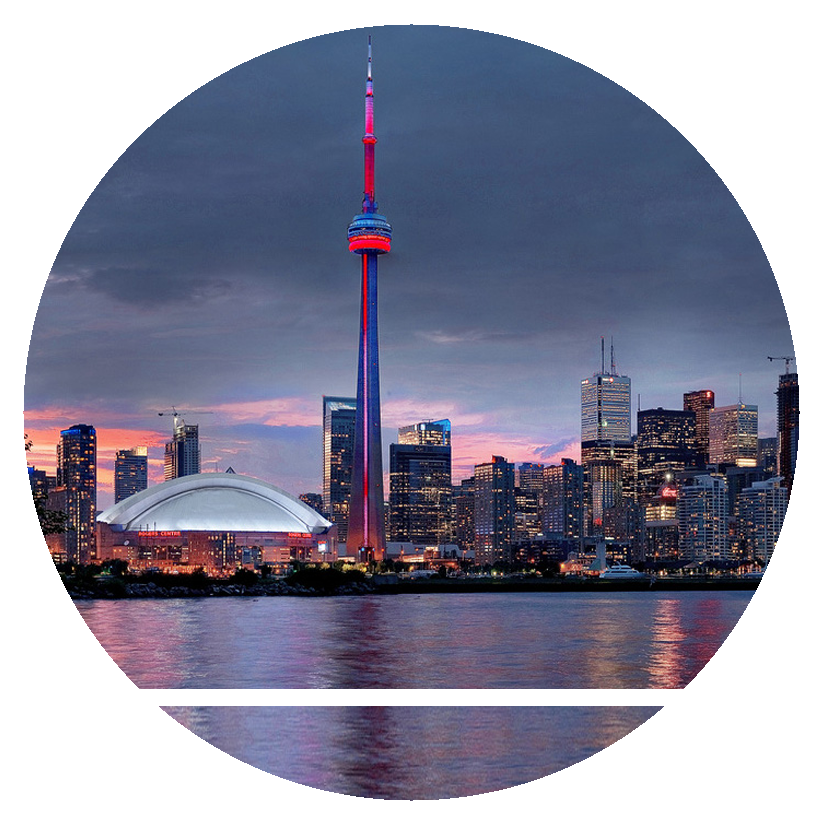
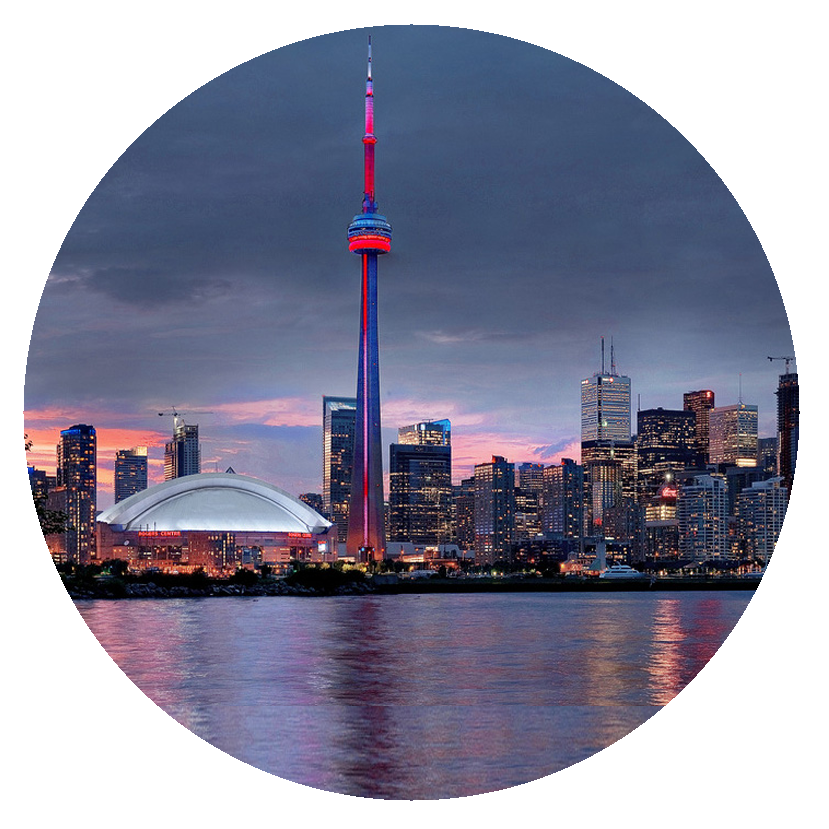
final touches t-30

Changed region(s): [[0.1809, 0.8142, 0.8142, 0.8745]]

diff --git a/pique.css b/pique.css
@@ -65,7 +65,7 @@ svg {
   margin: 0 auto;
   left: 5%;
   right: 0;
-  top: 35%;
+  top: 40%;
   bottom: 0;
 }
 
@@ -93,14 +93,14 @@ svg {
 }
 
 #img_circle {
-  zoom: 1;
+  zoom: 1.3;
   background-color: rgba(223, 85, 83, 0.6);
   height: 200px;
   width: 200px;
   border-radius: 100%;
   position: fixed;
-  top: 12%;
-  left: 6%;
+  top: 10%;
+  left: 9%;
   /*cursor: pointer;*/
 }
 
@@ -121,8 +121,8 @@ svg {
 
 #navigation_container {
   position: fixed;
-  top: 100px;
-  left: -20px;
+  top: 70px;
+  left: -10px;
    margin: 0 auto;
    width: 200px;
 }

diff --git a/d3.js b/d3.js
@@ -6,8 +6,8 @@ var city
 var projection = d3.geo.mercator()
     .center([0,70])
     .rotate([-10,0])
-    .translate([wdth/2,hght/3.5])
-    .scale(200);
+    .translate([wdth/2,hght/3.0])
+    .scale(220);
 
 var svg = d3.select("body").selectAll("div").append("svg")
 

diff --git a/index.html b/index.html
@@ -30,7 +30,6 @@
             </div>
           <div class="r-triangle-top"></div>
           <div class="r-triangle-bottom"></div>
-
         </div>
       </div>
     </div>
